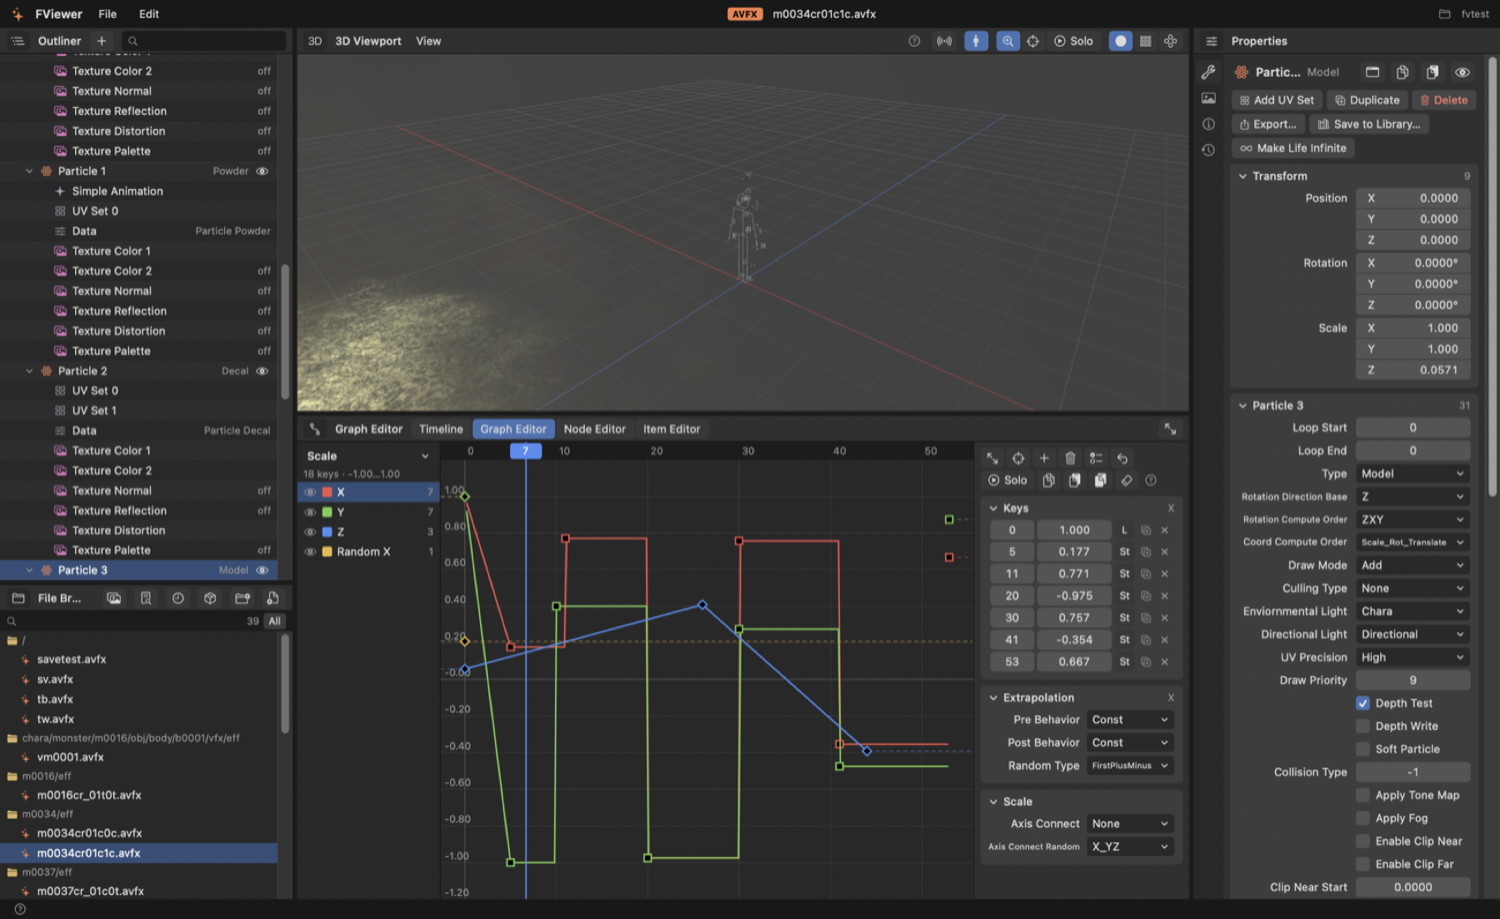
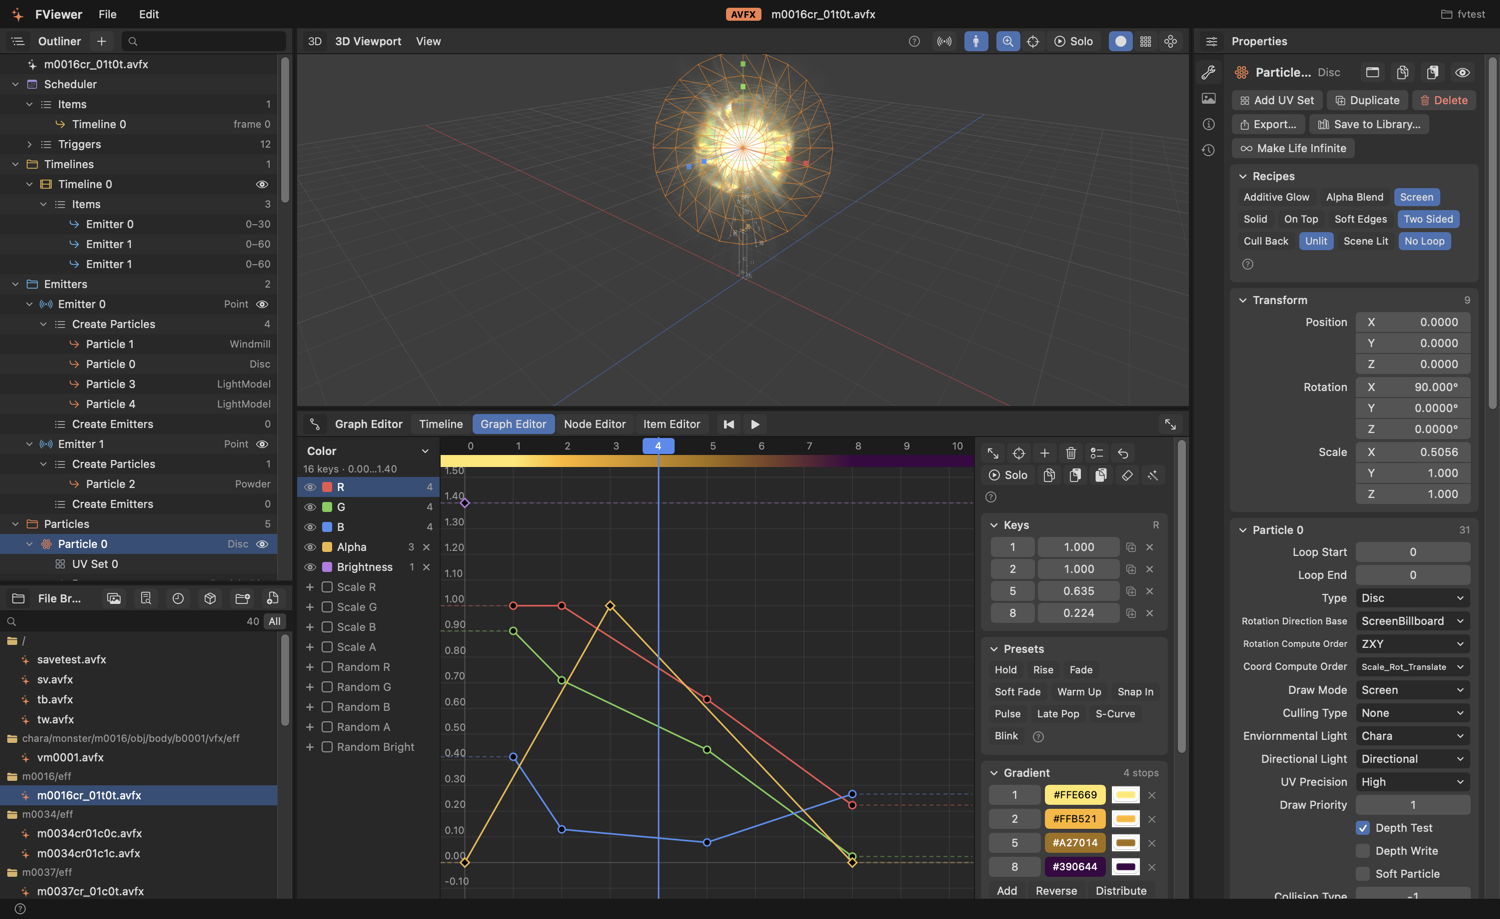
ui\ux fixes
selection by clicking empty viewport space or Esc; make the selected item's wire opaque so it shows over bright particles

diff --git a/FViewer/Viewport/ViewportRenderer.swift b/FViewer/Viewport/ViewportRenderer.swift
@@ -567,7 +567,14 @@ final class ViewportRenderer: NSObject, MTKViewDelegate {
         if let particle = simulation.pick(origin: camera.eye, direction: direction, camera: state, filter: filter) {
             let id = "avfx/Ptcl/\(particle)"
             if document.node(id) != nil { document.selectionID = id }
+        } else {
+            clearTarget()
         }
+    }
+
+    func clearTarget() {
+        guard let document, let root = document.outline.first?.id, document.selectionID != root else { return }
+        document.selectionID = root
     }
 
     func draw(in view: MTKView) {
@@ -683,7 +690,7 @@ final class ViewportRenderer: NSObject, MTKViewDelegate {
                                   shading: effectShading)
             if !highlightDraws.isEmpty {
                 particleRenderer.drawHighlight(encoder, draws: highlightDraws, particles: effect.particles, view: viewMatrix, projection: projection,
-                                               camera: camera.eye, color: SIMD4(1.0, 0.72, 0.28, 0.5))
+                                               camera: camera.eye, color: SIMD4(1.0, 0.5, 0.05, 1))
             }
             encoder.setRenderPipelineState(pipeline)
             encoder.setFragmentSamplerState(sampler, index: 0)
@@ -817,6 +824,7 @@ final class ViewportMTKView: MTKView {
         case "3": camera.setView(yaw: .pi / 2, pitch: 0)
         case "7": camera.setView(yaw: 0, pitch: 1.55)
         case ".": NotificationCenter.default.post(name: .viewportFrameAll, object: nil)
+        case "\u{1b}": (delegate as? ViewportRenderer)?.clearTarget()
         default: super.keyDown(with: event)
         }
     }
